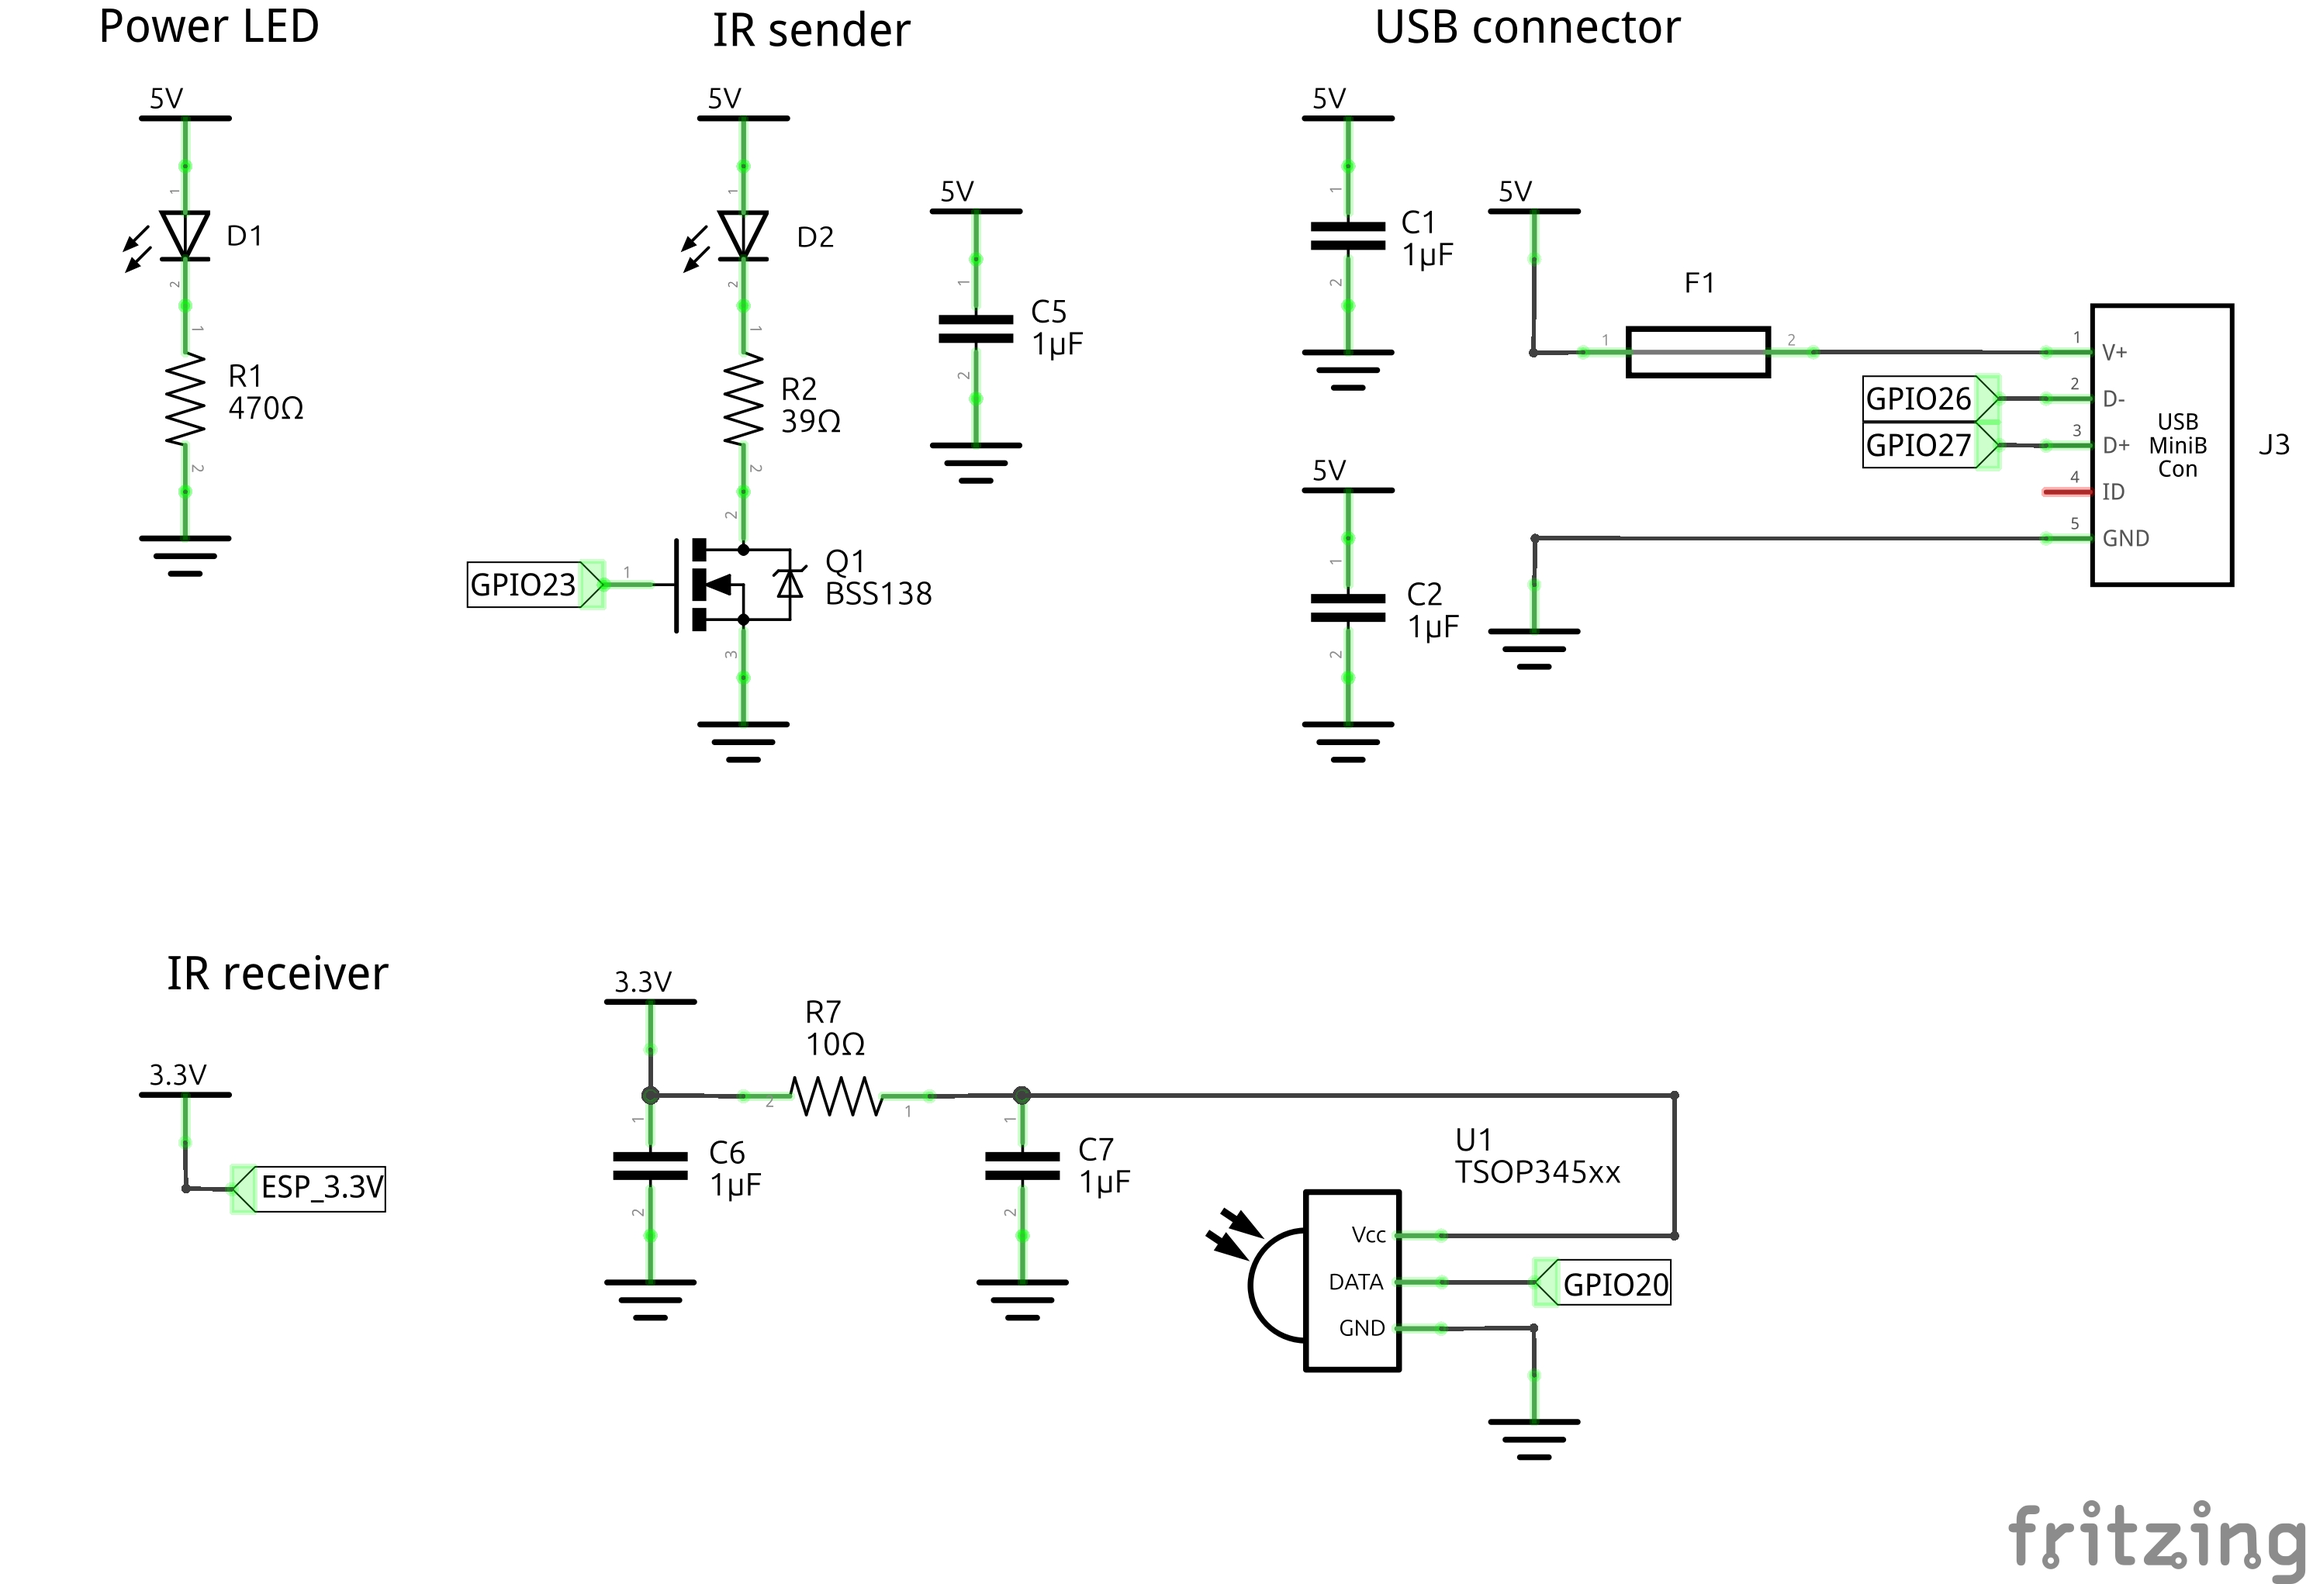
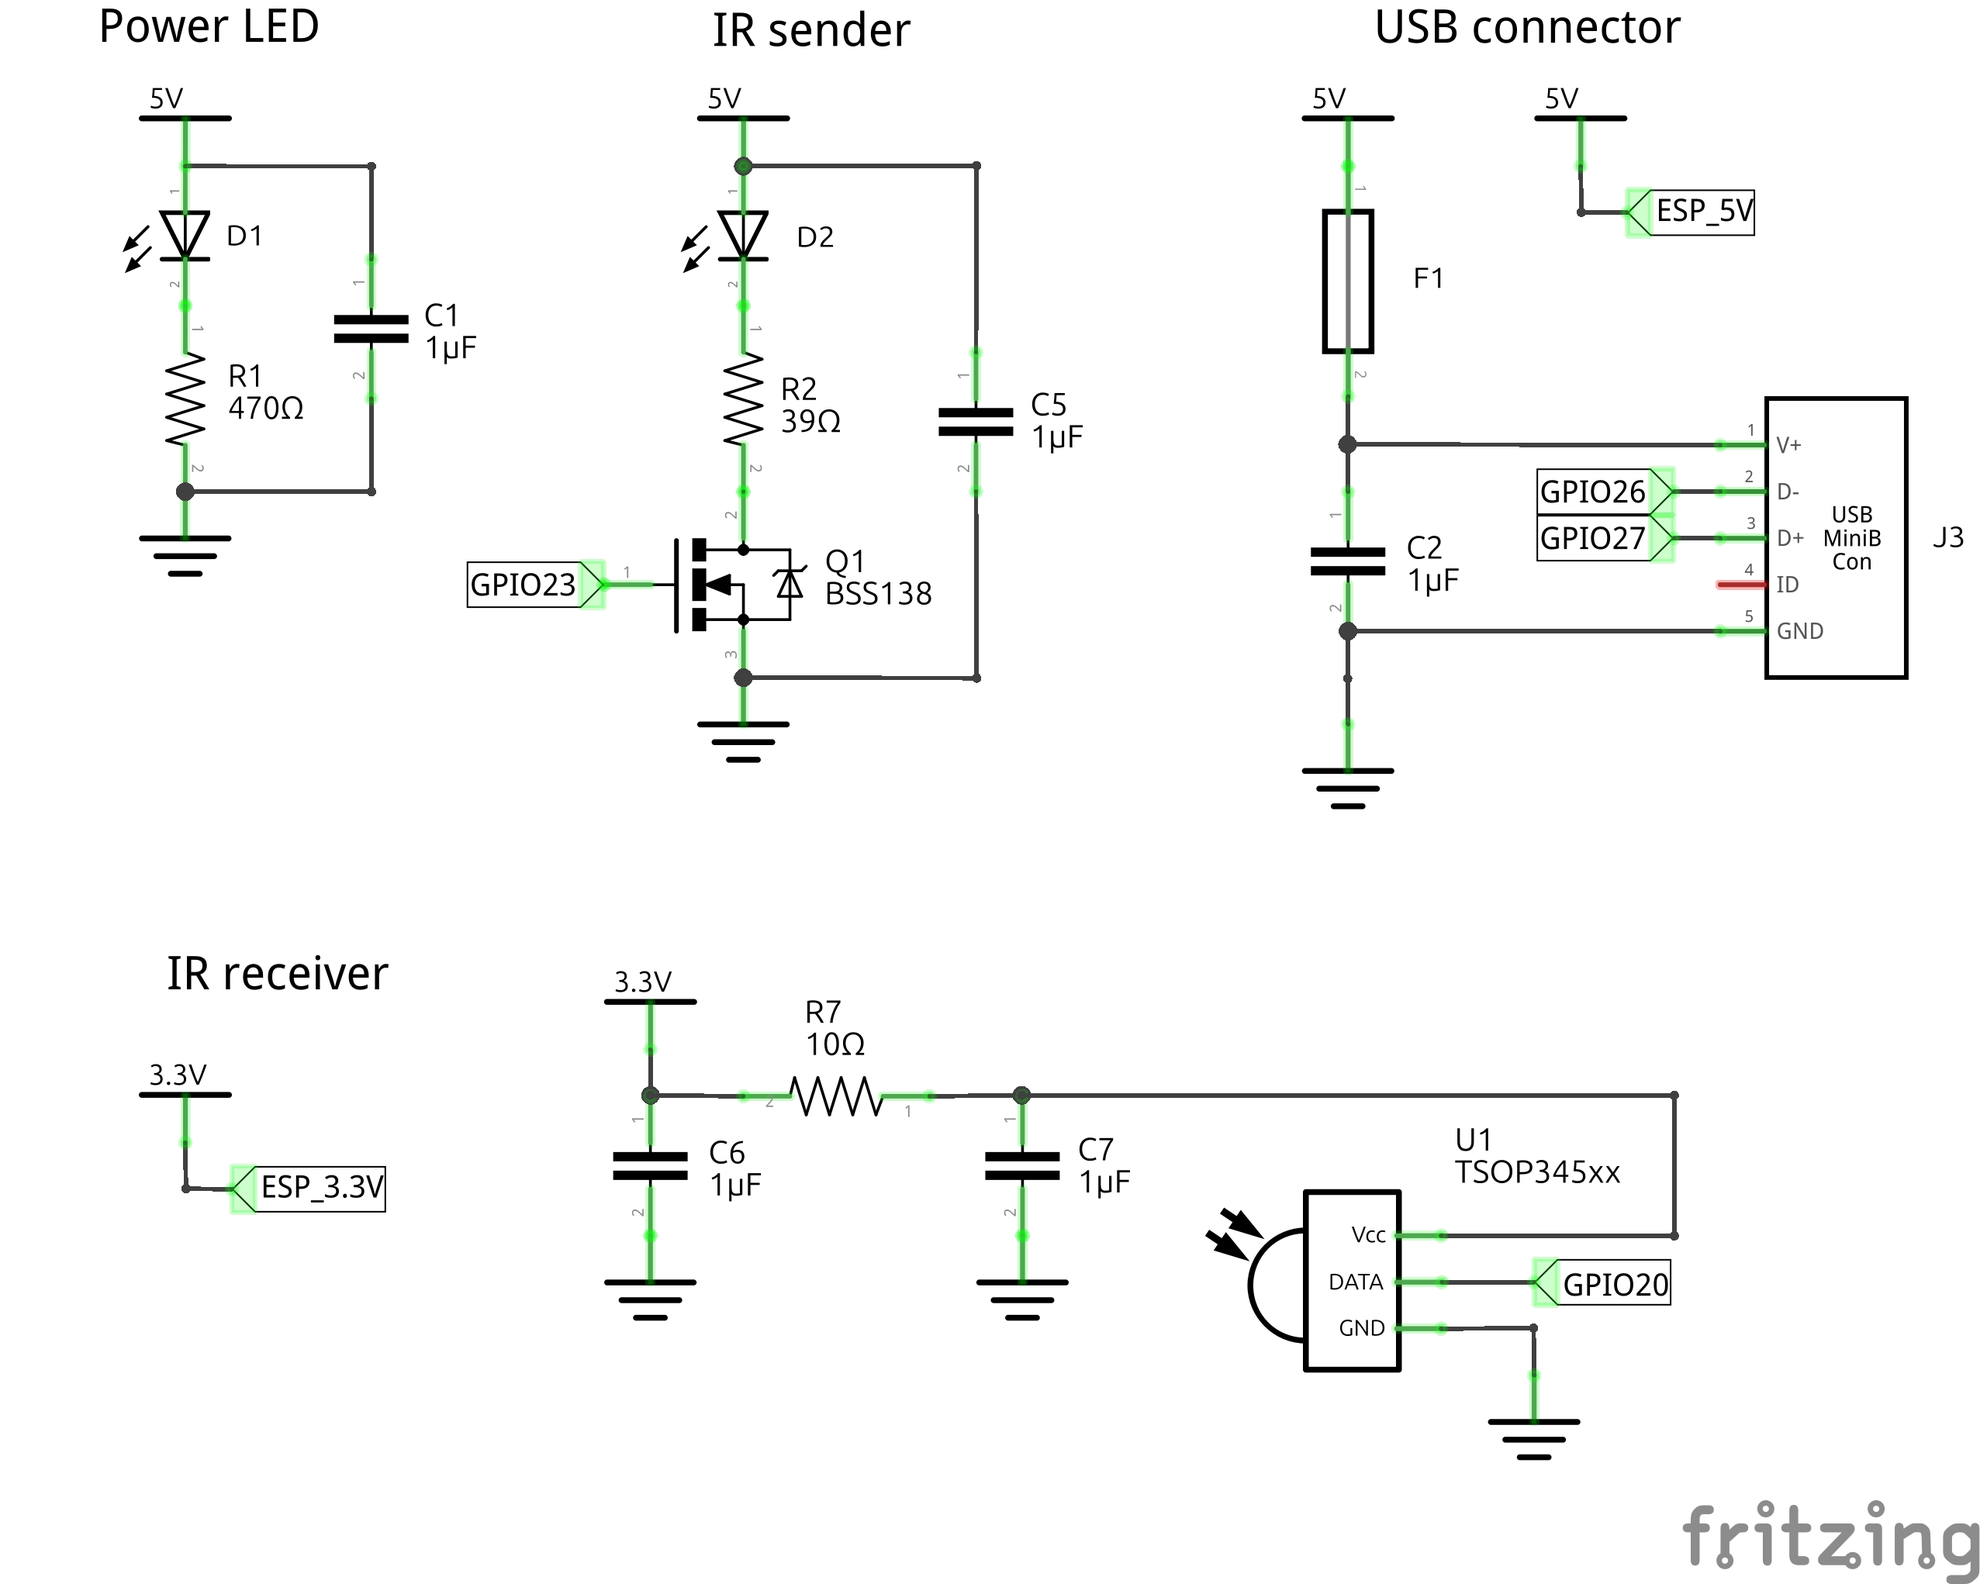
T2V: Update the layout and text

diff --git a/t2v.md b/t2v.md
@@ -41,9 +41,9 @@ and, if possible, to indicate slow-driving sections[^1].
 
 [^1]: Subject to final rule agreement and roll-out of T2V Module.
 
-To allow for an early roll-out to as many teams as possible, we provide build instructions and software for the
+<!--To allow for an early roll-out to as many teams as possible, we provide build instructions and software for the
 receivers, based on the ESP32-P4 platform. Teams can find those instructions on GitHub in the repository for the T2V
-Module. We also provide a basic ROS integration and will include a sensible integration for our Ackermann Mux NG (our new implementation for the Ackermann Mux, which we will release soon). All instructions, source code, and designs will be available as open-source projects under MIT or CC0 licenses, respectively, after we have finalized the initial versions for each component.
+Module. We also provide a basic ROS integration and will include a sensible integration for our Ackermann Mux NG (our new implementation for the Ackermann Mux, which we will release soon). All instructions, source code, and designs will be available as open-source projects under MIT or CC0 licenses, respectively, after we have finalized the initial versions for each component.-->
 
 <hr>
 
@@ -88,7 +88,7 @@ informative, and devices might use them to optimize their starting routine (e.g.
 the dead man's switch without the car starting to drive).
 
 | ID          | Name        | Required | Usage                            |
-|-------------|-------------|----------|----------------------------------|
+| ----------- | ----------- | -------- | -------------------------------- |
 | `00`        | START_READY | No       | Starting sequence has started.   |
 | `01`        | START_SET   | No       | Start of race is imminent.       |
 | `02`        | START_GO    | Yes      | Start the race.                  |
@@ -105,28 +105,34 @@ We aim to make the T2V Module accessible to as many teams as possible by providi
 Reference Receiver. To achieve this, we have based the receiver on
 the [ESP32-P4-NANO](https://www.waveshare.com/esp32-p4-nano.htm) from Waveshare, which is internationally available and
 costs less than 20 USD. In the minimum configuration, teams need to purchase an additional IR Receiver, a USB plug with
-a corresponding cable, and a few jumper wires:
+a corresponding cable, a few passive components, and a bunch of jumper wires:
 
-| Reference      | Note                             | Value/Type | Farnell Code | Link (Examples)                                              |
-| -------------- | -------------------------------- | ---------- | ------------ | ------------------------------------------------------------ |
-|                | ESP32-P4-NANO                    |            |              | [Waveshare.com](https://www.waveshare.com/esp32-p4-nano.htm?sku=29026) |
-| C1, C2, C3, C6 | Capacitors                       | 1 µF       | 3188966      |                                                              |
-| D1             | Power LED                        | Green      | 2099252      |                                                              |
-| F1             | Fuse                             |            | 2834854      |                                                              |
-| J3             | USB Connector                    | USB mini B | 4552359      | [Amazon.de](https://www.amazon.de/DAOKAI-8-Piece-USB-Adapter-2-54/dp/B09YYHNCC3/ref=sr_1_1_sspa?aref=IGryautNMT) |
-| R1             | Resistor for Power LED           | 470 Ω      | 9240926      |                                                              |
-| R7             | Resistor for Receiver LED filter | 10 Ω       | 9236643      |                                                              |
-| U1             | Receiver LED                     | TSOP345xx  | 2251343      | [Amazon.de](https://www.amazon.de/-/en/LAOMAO-Pairs-Infrared-Emission-Receiver/dp/B00EFOTJZE/ref=sr_1_5) |
-|                | Jumper wires                     |            |              |                                                              |
+| Reference  | Note                             | Value/Type | Farnell Code | Link (Examples)                                              |
+| ---------- | -------------------------------- | ---------- | ------------ | ------------------------------------------------------------ |
+|            | ESP32-P4-NANO                    |            |              | [Waveshare.com](https://www.waveshare.com/esp32-p4-nano.htm?sku=29026) |
+| C2, C3, C6 | Capacitors                       | 1 µF       | 3188966      |                                                              |
+| F1         | Fuse                             |            | 2834854      |                                                              |
+| J3         | USB Connector                    | USB mini B | 4552359      | [Amazon.de](https://www.amazon.de/DAOKAI-8-Piece-USB-Adapter-2-54/dp/B09YYHNCC3/ref=sr_1_1_sspa?aref=IGryautNMT) |
+| R7         | Resistor for Receiver LED filter | 10 Ω       | 9236643      |                                                              |
+| U1         | Receiver LED                     | TSOP345xx  | 2251343      | [Amazon.de](https://www.amazon.de/-/en/LAOMAO-Pairs-Infrared-Emission-Receiver/dp/B00EFOTJZE/ref=sr_1_5) |
+|            | Jumper wires                     |            |              |                                                              |
 
-For local testing you can easily extend the circuit with infrared sender:
+Optionally also add a Power LED to be able to see that the device is powered:
 
-| Reference | Note                      | Value/Type | Farnell Code | Link (Examples)                                              |
-| --------- | ------------------------- | ---------- | ------------ | ------------------------------------------------------------ |
-| C5        | Capacitor for Sender LED  | 1 µF       | 3188966      |                                                              |
-| D2        | Sender LED                | Infrared   | 1328299      | [Amazon.de](https://www.amazon.de/-/en/LAOMAO-Pairs-Infrared-Emission-Receiver/dp/B00EFOTJZE/ref=sr_1_5) |
-| Q1        | Transistor for Sender LED | BSS138     | 4655271      |                                                              |
-| R2        | Resistor for Sender LED   | 39 Ω       | 9236716      |                                                              |
+| Reference | Note      | Value/Type | Farnell Code | Link (Examples) |
+| --------- | --------- | ---------- | ------------ | --------------- |
+| C1        | Capacitor | 1 µF       | 3188966      |                 |
+| D1        | Power LED | Green      | 2099252      |                 |
+| R1        | Resistor  | 470 Ω      | 9240926      |                 |
+
+For local testing you can easily extend the circuit with an infrared sender:
+
+| Reference | Note       | Value/Type | Farnell Code | Link (Examples)                                              |
+| --------- | ---------- | ---------- | ------------ | ------------------------------------------------------------ |
+| C5        | Capacitor  | 1 µF       | 3188966      |                                                              |
+| D2        | Sender LED | Infrared   | 1328299      | [Amazon.de](https://www.amazon.de/-/en/LAOMAO-Pairs-Infrared-Emission-Receiver/dp/B00EFOTJZE/ref=sr_1_5) |
+| Q1        | Transistor | BSS138     | 4655271      |                                                              |
+| R2        | Resistor   | 39 Ω       | 9236716      |                                                              |
 
 Wiring diagram:
 
@@ -137,9 +143,9 @@ Wiring diagram:
 </center>
 
 
-We also provide a PCB design that includes the USB plug, headers for the
+<!-- We also provide a PCB design that includes the USB plug, headers for the
 IR receiver, and headers for some typical low-level protocols, such as I2C, SPI, and one-wire. We will release the build
-instructions in a forthcoming post, followed by the PCB design once it has been finalized and tested.
+instructions in a forthcoming post, followed by the PCB design once it has been finalized and tested. -->
 
 The firmware handles the processing of the IR NEC frames and communication as a USB device. As we intend to expand the
 receiver's functionality to read data from temperature sensors and voltage meters, these features will also be generally
@@ -163,6 +169,13 @@ table below describes the characteristics and their BLE attributes.
 | `FF04`         | Unicast address | Read/Write  | Unicast address for this device.                                                                 |
 | `FF05`         | Multicast mask  | Read/Write  | Multicast mask, with each bit in the mask representing one possible address.                     |
 
+## Documentation
+
+- Instructions: <https://github.com/ScuderiaSegfault/t2v_mod/tree/main>
+- Driver: <https://github.com/ScuderiaSegfault/t2v_mod_rs>
+- Example ROS 2 node: <https://github.com/ScuderiaSegfault/t2v_mod_node>
+- Message definitions: <https://github.com/ScuderiaSegfault/t2v_msgs>
+
 <hr>
 
 # Reference Sender
@@ -170,12 +183,11 @@ table below describes the characteristics and their BLE attributes.
 Similar to the Reference Receiver, we have also developed a Reference Sender for use at the Vienna Grand Prix. It is based
 on the same hardware platform as the receiver, but uses Power over Ethernet for power supply and network connectivity.
 In the first version, it will allow direct commands via UDP and TCP, as well as communication based on Zenoh for
-integration into more complex systems. Once we have finalized the protocols, we will make them available, including some
-basic tools for testing.
+integration into more complex systems. <!--Once we have finalized the protocols, we will make them available, including some
+basic tools for testing.-->
 
-<hr>
 
-# Specialized Sender: Starting Lights
+## Specialized Sender: Starting Lights
 
 <center>
 <span class="image main-image">
